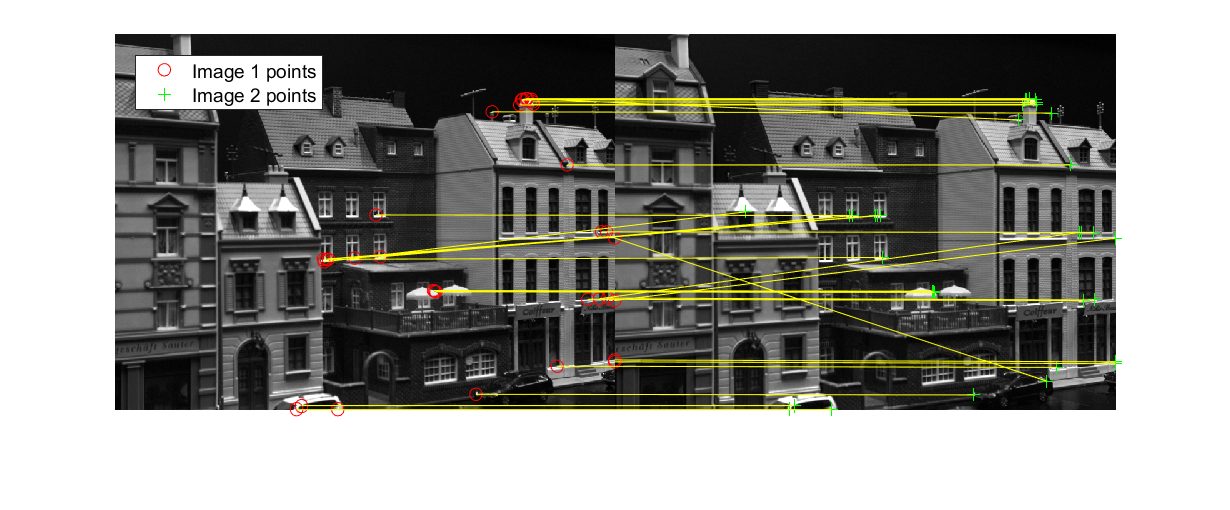
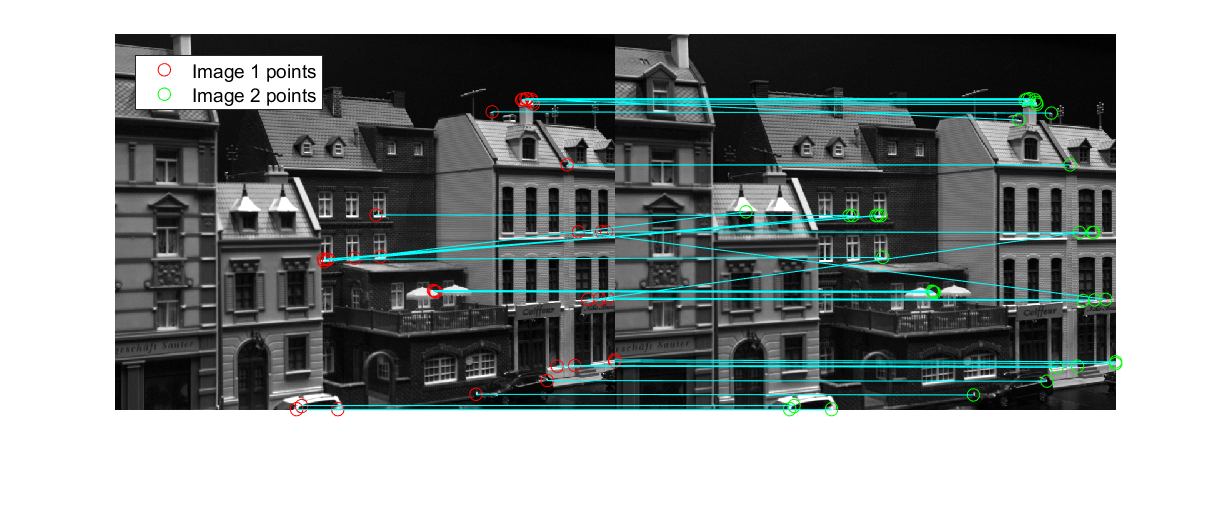
Minor color adjustments

diff --git a/assignment2/main.m b/assignment2/main.m
@@ -37,13 +37,13 @@ for i = 1:length(N)
     im2 = imread(strcat(in_path, files{1,2}, files{2,2}));
 
     % Match interest points
-    matches = find_matchings(descriptors1, descriptors2,100000);
+    [matches,stats] = find_matchings(descriptors1, descriptors2,100000);
     p1 = points_im1(matches(1,:),:);
     p2 = points_im2(matches(2,:),:);
 
     % Plot matched interest points on top of images
     figure;
-    showMatchedFeatures(im1,im2,p1,p2,'montage');
+    showMatchedFeatures(im1,im2,p1,p2,'montage','PlotOptions',{'ro','go','c-'});
     legend('Image 1 points','Image 2 points', 'Location','NorthWest');
 
     % Save plot figure
